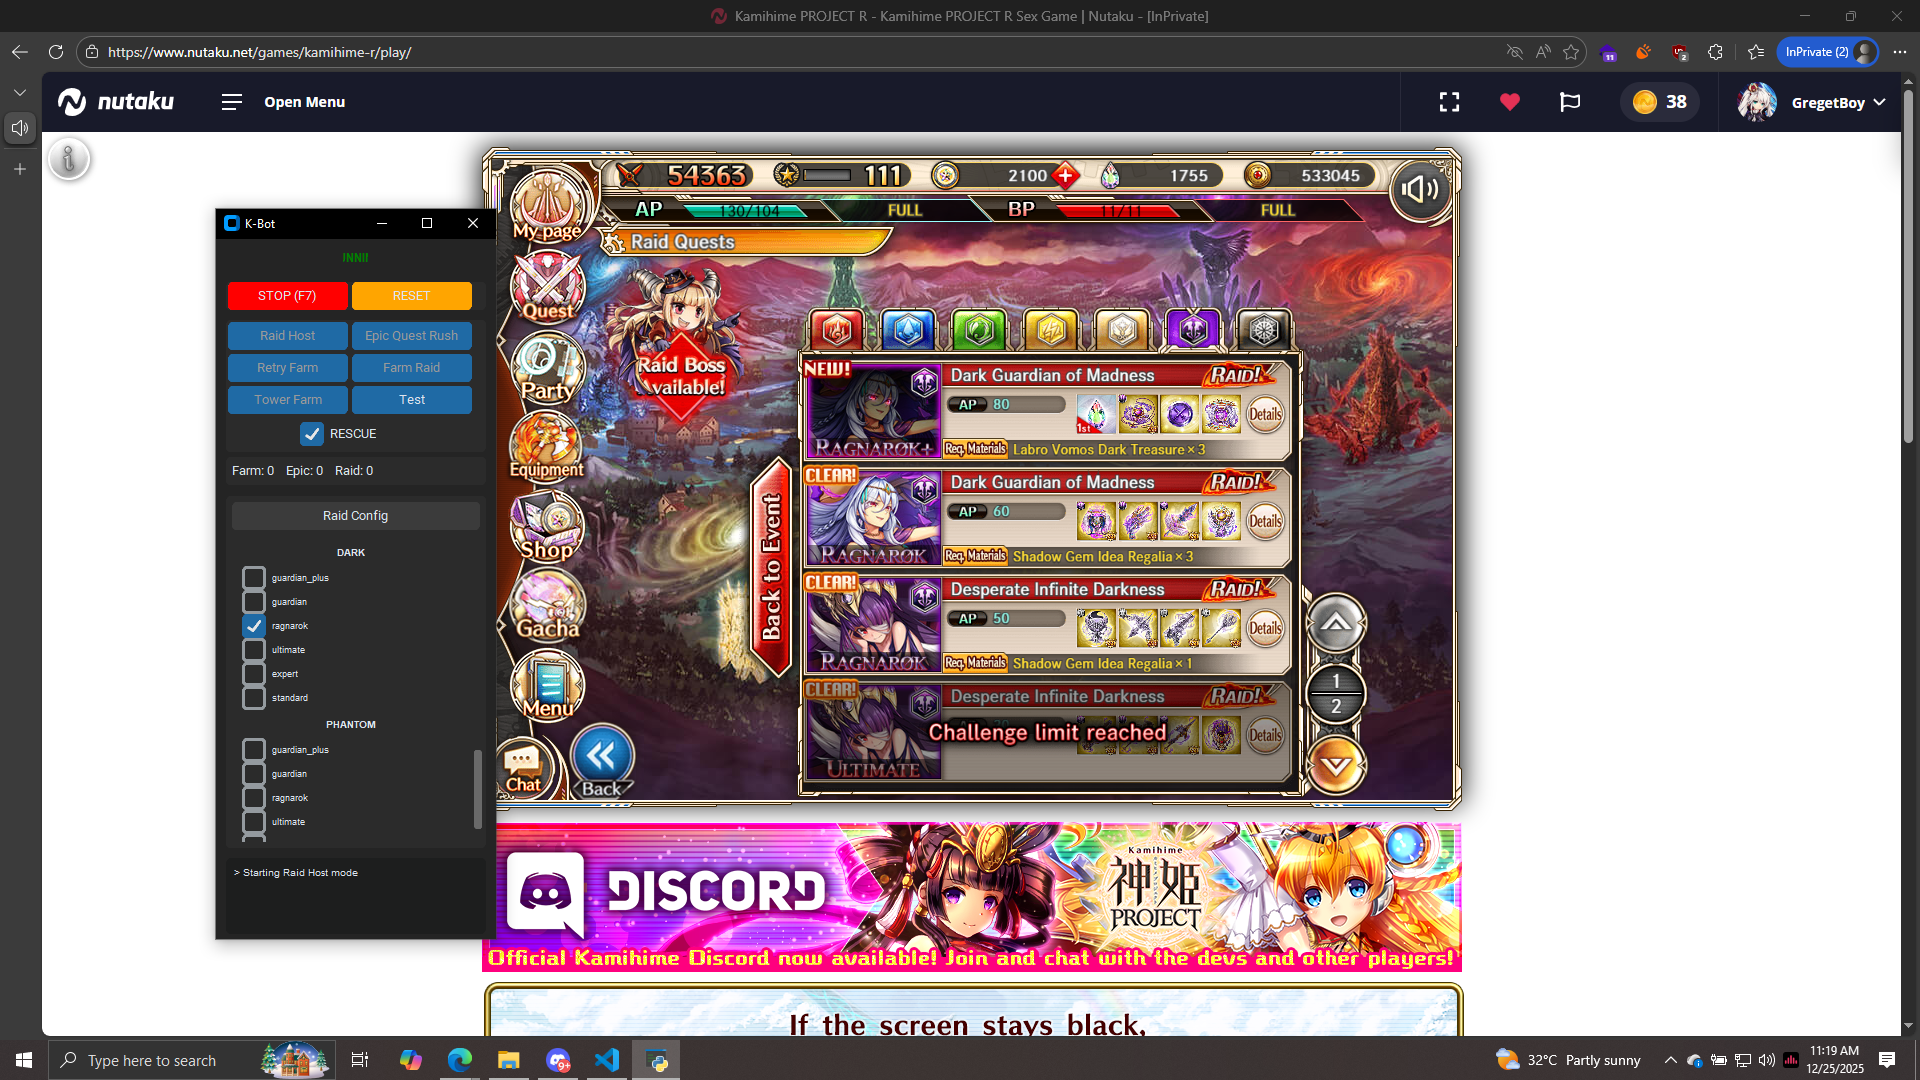
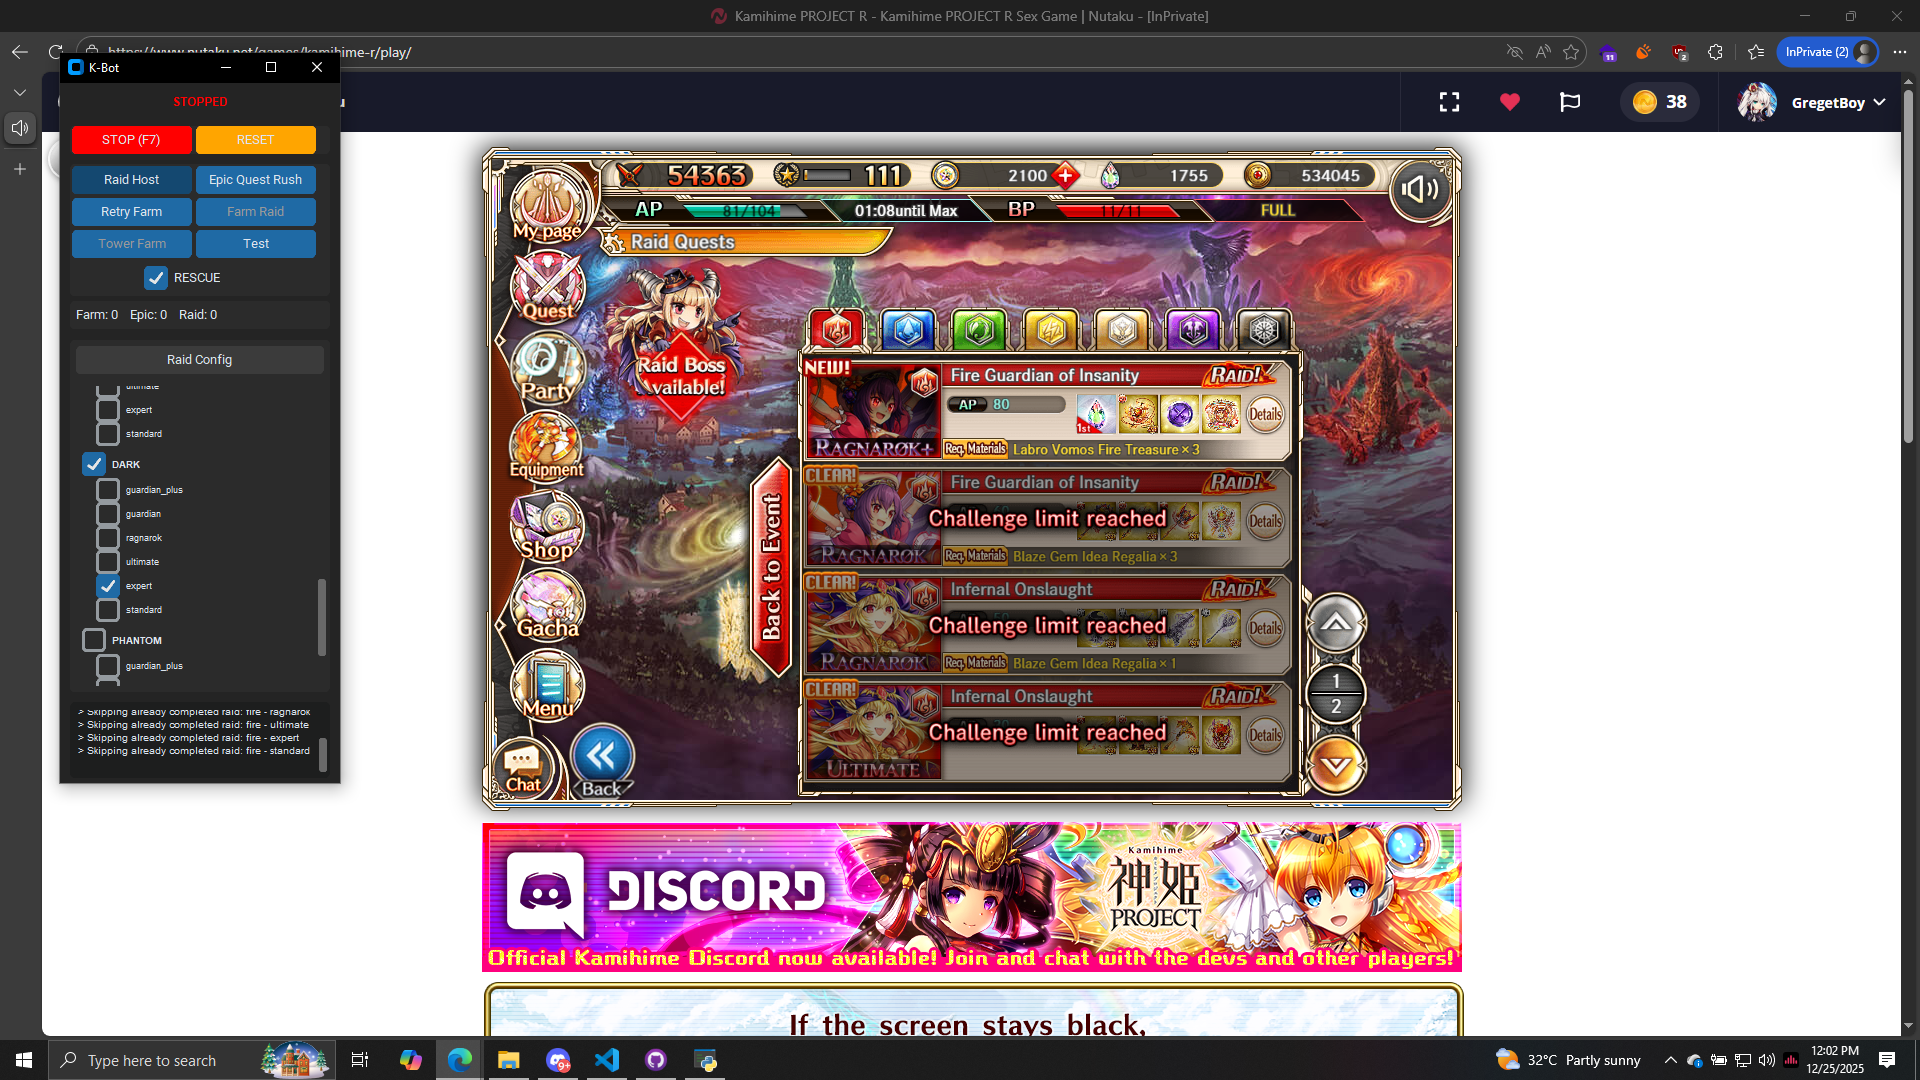
raid config

diff --git a/main.py b/main.py
@@ -7,18 +7,47 @@ DIFFICULTIES = config.DIFFICULTIES
 IMAGES = config.IMAGES
 get_img = config.get_img
 
-# Initialize State
-logic.state["raid_settings"] = {el: {d: True for d in DIFFICULTIES} for el in ELEMENTS}
-# completed_raids: counters per element/difficulty (0..N). Phantom allowed twice by default.
-logic.state["completed_raids"] = {el: {d: 0 for d in DIFFICULTIES} for el in ELEMENTS}
-# max_runs per element (phantom=2, others=1)
-logic.state["max_runs"] = {el: (2 if el == "phantom" else 1) for el in ELEMENTS}
-# RESCUE behavior (True = wait for rescue OK to be active; False = cancel on death)
+# Initialize State with defaults; override from persisted prefs when available
+default_raid_settings = {
+    el: {"enable": True, "difficulty": {d: True for d in DIFFICULTIES}}
+    for el in ELEMENTS
+}
+default_completed = {el: {d: 0 for d in DIFFICULTIES} for el in ELEMENTS}
+default_max_runs = {el: (2 if el == "phantom" else 1) for el in ELEMENTS}
+
+logic.state["raid_settings"] = default_raid_settings
+logic.state["completed_raids"] = default_completed
+logic.state["max_runs"] = default_max_runs
 logic.state["rescue"] = True
 # loop counters: track how many iterations each sequence has performed
 logic.state["loop_counts"] = {"farm_loop": 0, "quest_rush": 0, "raid_host": 0}
 # active sequence name (or None)
 logic.state["active_sequence"] = None
+
+# Load persisted preferences (if any) and merge them into runtime state
+try:
+    prefs = config.load_prefs()
+    if prefs.get("raid_settings"):
+        # merge nested format: {el: {"enable": bool, "difficulty": { ... }}}
+        for el, data in prefs.get("raid_settings", {}).items():
+            if el in logic.state["raid_settings"] and isinstance(data, dict):
+                # merge enable flag
+                if "enable" in data:
+                    logic.state["raid_settings"][el]["enable"] = bool(data.get("enable"))
+                # merge difficulty map
+                if isinstance(data.get("difficulty"), dict):
+                    logic.state["raid_settings"][el]["difficulty"].update(data.get("difficulty"))
+    if prefs.get("completed_raids"):
+        for el, diffs in prefs.get("completed_raids", {}).items():
+            if el in logic.state["completed_raids"]:
+                logic.state["completed_raids"][el].update(diffs)
+    if prefs.get("max_runs"):
+        logic.state["max_runs"].update(prefs.get("max_runs", {}))
+    if "rescue" in prefs:
+        logic.state["rescue"] = bool(prefs.get("rescue"))
+except Exception:
+    # ignore prefs errors and continue with defaults
+    pass
 
 # --- Controller Functions ---
 def _set_mode_buttons_state(state_value):
@@ -72,6 +101,11 @@ def reset_list():
             logic.state["loop_counts"][k] = 0
     log.insert("end", ">>> PROGRESS RESET <<<\n")
     log.see("end")
+    # persist reset
+    try:
+        config.save_prefs(logic.state)
+    except Exception:
+        pass
 
 keyboard.add_hotkey('f7', stop_bot)
 
@@ -139,16 +173,73 @@ ctk.CTkCheckBox(mode_frame, text="RESCUE", variable=rescue_var, command=_toggle_
 scroll = ctk.CTkScrollableFrame(app, height=300, label_text="Raid Config")
 scroll.pack(fill="both", expand=True, padx=10, pady=5)
 
+# store child vars so we can sync parent <> children
+element_child_vars = {}
+
 for el in ELEMENTS:
-    ctk.CTkLabel(scroll, text=el.upper(), font=("Arial", 10, "bold")).pack()
+    # Parent checkbox for the whole element (persisted under raid_settings[el]['__element_enabled__'])
+    parent_init = logic.state.get("raid_settings", {}).get(el, {}).get("enable", True)
+    parent_var = ctk.BooleanVar(value=parent_init)
+
+    def make_parent_cb(e=el, pv=parent_var):
+        def _on_parent():
+            val = pv.get()
+            # set all child vars and update runtime state
+            for cv, diff in element_child_vars.get(e, []):
+                cv.set(val)
+                logic.state["raid_settings"][e]["difficulty"][diff] = val
+            # persist enable flag
+            logic.state["raid_settings"][e]["enable"] = val
+            try:
+                config.save_prefs(logic.state)
+            except Exception:
+                pass
+        return _on_parent
+
+    parent_cb = ctk.CTkCheckBox(scroll, text=el.upper(), font=("Arial", 10, "bold"), variable=parent_var, command=make_parent_cb())
+    parent_cb.pack(anchor="w", padx=6, pady=(6,2))
+
+    # prepare list for this element
+    element_child_vars[el] = []
+
     for d in DIFFICULTIES:
-        var = ctk.BooleanVar(value=True)
-        cb = ctk.CTkCheckBox(scroll, text=d, font=("Arial", 9), height=16, variable=var,
-                             command=lambda e=el, di=d, v=var: logic.state["raid_settings"][e].update({di: v.get()}))
-        cb.select()
-        cb.pack(anchor="w", padx=10)
+        # initialize checkbox state from persisted runtime state
+        init_val = logic.state.get("raid_settings", {}).get(el, {}).get("difficulty", {}).get(d, True)
+        var = ctk.BooleanVar(value=init_val)
+
+        def make_cb_command(e=el, di=d, v=var, pv=parent_var):
+            def _cb():
+                logic.state["raid_settings"][e]["difficulty"][di] = v.get()
+                # update parent: checked if any child checked
+                any_checked = any(cv.get() for cv, _ in element_child_vars.get(e, []))
+                pv.set(any_checked)
+                logic.state["raid_settings"][e]["enable"] = any_checked
+                # persist change immediately
+                try:
+                    config.save_prefs(logic.state)
+                except Exception:
+                    pass
+            return _cb
+
+        cb = ctk.CTkCheckBox(scroll, text=d, font=("Arial", 9), height=16, variable=var, command=make_cb_command())
+        if init_val:
+            cb.select()
+        cb.pack(anchor="w", padx=20)
+        element_child_vars[el].append((var, d))
 
 log = ctk.CTkTextbox(app, height=100, font=("Arial", 10))
 log.pack(fill="x", padx=10, pady=5)
+
+# Start an autosave thread to persist completed_raids and raid_settings periodically.
+def _autosave_loop(interval=5.0):
+    while True:
+        try:
+            config.save_prefs(logic.state)
+        except Exception:
+            pass
+        time.sleep(interval)
+
+import time
+threading.Thread(target=_autosave_loop, daemon=True).start()
 
 app.mainloop()

diff --git a/logic/flows.py b/logic/flows.py
@@ -61,13 +61,20 @@ def raid_host(IMAGES, ELEMENTS, get_img, log_widget=None):
         if not state.get("running", False):
             return
         
+        element_cfg = state["raid_settings"].get(element, {})
+        # skip whole element if disabled
+        if not element_cfg.get("enable", True):
+            log_msg(f"Element {element_cfg} is not enabled. Skipping")
+            continue
+
         log_msg(f"Selecting element: {element}", log_widget)
-        
+
         if index > 0:
             find_and_click(get_img(f"KHR_raid_{element}"), log_widget=log_widget, confidence=0.98)
-        
-        for difficulty, enabled in state["raid_settings"].get(element, {}).items():
+
+        for difficulty, enabled in element_cfg.get("difficulty", {}).items():
             if not enabled:
+                log_msg(f"Element {element_cfg} Difficulty {difficulty} is not enabled. Skipping")
                 continue
             
             if state['completed_raids'].get(element, {}).get(difficulty, 0) > 0:
@@ -79,7 +86,7 @@ def raid_host(IMAGES, ELEMENTS, get_img, log_widget=None):
                 log_msg("Handling raid entry", log_widget)
                 raid_image = get_img(f"KHR_{element}_{difficulty}")
 
-                if find_and_click(raid_image, confidence=0.95, log_widget=log_widget, optional=True):
+                if find_and_click(raid_image, confidence=0.85, log_widget=log_widget, optional=True):
                     if ongoing_battle(IMAGES, log_widget=log_widget):
                         continue
                     

diff --git a/config.py b/config.py
@@ -1,5 +1,8 @@
 import os
 import pyautogui
+import json
+
+PREFS_FILENAME = "raid_prefs.json"
 
 pyautogui.useImageNotFoundException(False)
 BASE_DIR = os.path.dirname(os.path.abspath(__file__))
@@ -46,3 +49,41 @@ IMAGES = {
     "down_max": get_img('KHR_down_max'),
     "limit": get_img('KHR_limit')
 }
+
+
+PREFS_PATH = os.path.join(BASE_DIR, PREFS_FILENAME)
+
+
+def load_prefs():
+    """Load persisted raid preferences (raid_settings, completed_raids, max_runs, rescue).
+
+    Returns a dict with saved keys or an empty dict when none exists.
+    """
+    if not os.path.exists(PREFS_PATH):
+        return {}
+    try:
+        with open(PREFS_PATH, 'r', encoding='utf-8') as f:
+            data = json.load(f)
+            return data if isinstance(data, dict) else {}
+    except Exception:
+        return {}
+
+
+def save_prefs(state_dict):
+    """Persist selected parts of runtime state to PREFS_PATH.
+
+    We only persist raid_settings, completed_raids, max_runs, and rescue so the file
+    remains small and focused on user preferences/progress.
+    """
+    try:
+        data = {
+            'raid_settings': state_dict.get('raid_settings', {}),
+            'completed_raids': state_dict.get('completed_raids', {}),
+            'max_runs': state_dict.get('max_runs', {}),
+            'rescue': state_dict.get('rescue', True),
+        }
+        with open(PREFS_PATH, 'w', encoding='utf-8') as f:
+            json.dump(data, f, indent=2)
+        return True
+    except Exception:
+        return False
